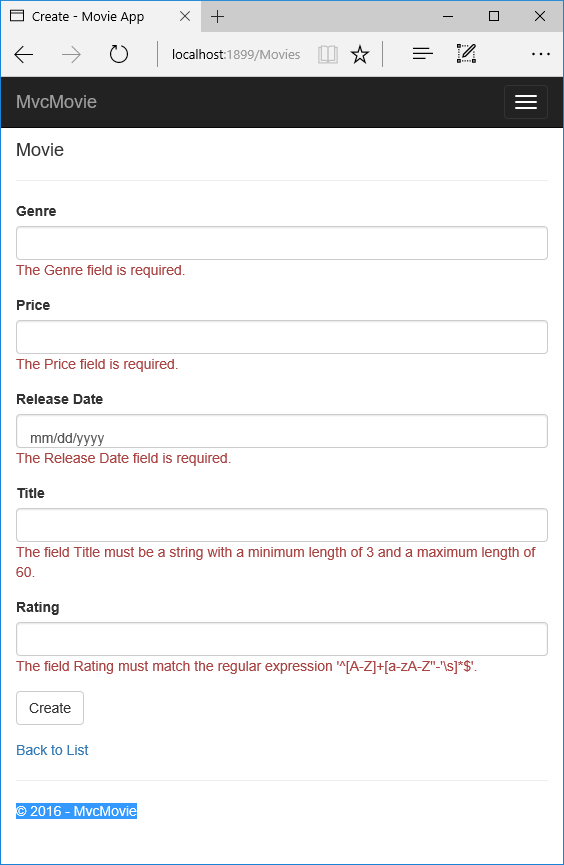
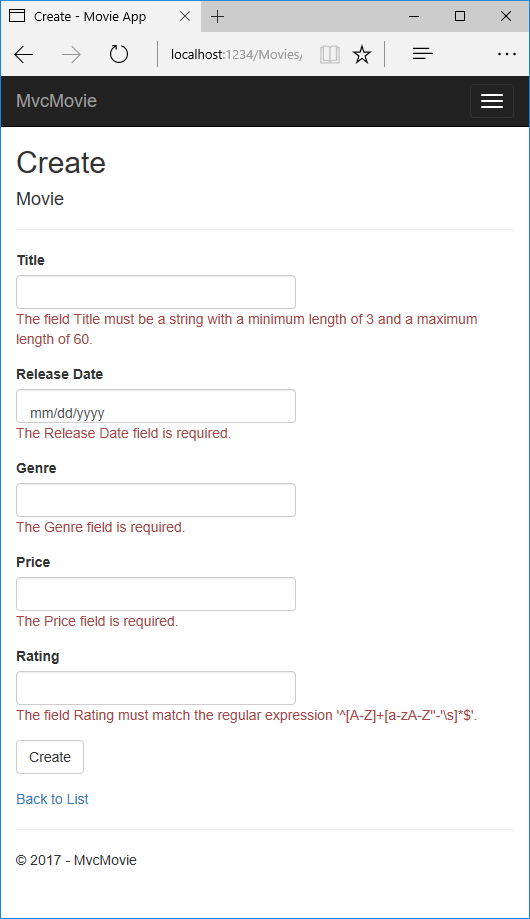
new field and validation

Changed region(s): [[0.0, 0.0, 1.0, 0.874], [0.0302, 0.9052, 0.2415, 0.9676], [0.8453, 0.0, 0.8755, 0.0312]]

diff --git a/aspnetcore/tutorials/first-mvc-app/start-mvc/sample/MvcMovie/Controllers/MoviesController.cs b/aspnetcore/tutorials/first-mvc-app/start-mvc/sample/MvcMovie/Controllers/MoviesController.cs
@@ -41,7 +41,7 @@ namespace MvcMovie.Controllers
             return View(movie);
         }
         #endregion
-
+        #region snippetCreate
         // GET: Movies/Create
         public IActionResult Create()
         {
@@ -49,11 +49,10 @@ namespace MvcMovie.Controllers
         }
 
         // POST: Movies/Create
-        // To protect from overposting attacks, please enable the specific properties you want to bind to, for 
-        // more details see http://go.microsoft.com/fwlink/?LinkId=317598.
         [HttpPost]
         [ValidateAntiForgeryToken]
-        public async Task<IActionResult> Create([Bind("ID,Title,ReleaseDate,Genre,Price")] Movie movie)
+        public async Task<IActionResult> Create(
+            [Bind("ID,Title,ReleaseDate,Genre,Price, Rating")] Movie movie)
         {
             if (ModelState.IsValid)
             {
@@ -63,6 +62,7 @@ namespace MvcMovie.Controllers
             }
             return View(movie);
         }
+        #endregion
 
         // GET: Movies/Edit/5
         public async Task<IActionResult> Edit(int? id)
@@ -85,7 +85,7 @@ namespace MvcMovie.Controllers
         // more details see http://go.microsoft.com/fwlink/?LinkId=317598.
         [HttpPost]
         [ValidateAntiForgeryToken]
-        public async Task<IActionResult> Edit(int id, [Bind("ID,Title,ReleaseDate,Genre,Price")] Movie movie)
+        public async Task<IActionResult> Edit(int id, [Bind("ID,Title,ReleaseDate,Genre,Price,Rating")] Movie movie)
         {
             if (id != movie.ID)
             {

diff --git a/aspnetcore/tutorials/first-mvc-app/start-mvc/sample/MvcMovie/Models/MovieDateRatingDA.cs b/aspnetcore/tutorials/first-mvc-app/start-mvc/sample/MvcMovie/Models/MovieDateRatingDA.cs
@@ -1,11 +1,11 @@
-//#define MovieDateRatingDA
+#define MovieDateRatingDA
 #if MovieDateRatingDA
 using System;
 using System.ComponentModel.DataAnnotations;
 
 namespace MvcMovie.Models
 {
-    // Movie with Validation attributes.
+#region snippet1
     public class Movie
     {
         public int ID { get; set; }
@@ -13,23 +13,25 @@ namespace MvcMovie.Models
         [StringLength(60, MinimumLength = 3)]
         public string Title { get; set; }
 
+        #region snippet2
         [Display(Name = "Release Date")]
         [DataType(DataType.Date)]
         public DateTime ReleaseDate { get; set; }
+
+        [Range(1, 100)]
+        [DataType(DataType.Currency)]
+        public decimal Price { get; set; }
+        #endregion
 
         [RegularExpression(@"^[A-Z]+[a-zA-Z''-'\s]*$")]
         [Required]
         [StringLength(30)]
         public string Genre { get; set; }
 
-        [Range(1, 100)]
-        [DataType(DataType.Currency)]
-        public decimal Price { get; set; }
-
         [RegularExpression(@"^[A-Z]+[a-zA-Z''-'\s]*$")]
         [StringLength(5)]
         public string Rating { get; set; }
     }
-    // End of Movie
+#endregion
 }
 #endif

diff --git a/aspnetcore/tutorials/first-mvc-app/start-mvc/sample/MvcMovie/Models/SeedDataRating.cs b/aspnetcore/tutorials/first-mvc-app/start-mvc/sample/MvcMovie/Models/SeedDataRating.cs
@@ -1,9 +1,8 @@
-//#define SeedRating 
+#define SeedRating 
 #if SeedRating
 
 using Microsoft.EntityFrameworkCore;
 using Microsoft.Extensions.DependencyInjection;
-using MvcMovie.Data;
 using System;
 using System.Linq;
 
@@ -22,6 +21,7 @@ namespace MvcMovie.Models
                 }
 
                 context.Movie.AddRange(
+                #region snippet1
                      new Movie
                      {
                          Title = "When Harry Met Sally",
@@ -30,7 +30,7 @@ namespace MvcMovie.Models
                          Rating = "R",
                          Price = 7.99M
                      },
-                     // Add another movie.
+                #endregion
                      new Movie
                      {
                          Title = "Ghostbusters ",

diff --git a/aspnetcore/tutorials/first-mvc-app/start-mvc/sample/MvcMovie/Migrations/20170302035236_Rating.cs b/aspnetcore/tutorials/first-mvc-app/start-mvc/sample/MvcMovie/Migrations/20170302035236_Rating.cs
@@ -1,0 +1,24 @@
+using System;
+using System.Collections.Generic;
+using Microsoft.EntityFrameworkCore.Migrations;
+
+namespace MvcMovie.Migrations
+{
+    public partial class Rating : Migration
+    {
+        protected override void Up(MigrationBuilder migrationBuilder)
+        {
+            migrationBuilder.AddColumn<string>(
+                name: "Rating",
+                table: "Movie",
+                nullable: true);
+        }
+
+        protected override void Down(MigrationBuilder migrationBuilder)
+        {
+            migrationBuilder.DropColumn(
+                name: "Rating",
+                table: "Movie");
+        }
+    }
+}

diff --git a/aspnetcore/tutorials/first-mvc-app/start-mvc/sample/MvcMovie/Migrations/20170302035236_Rating.Designer.cs b/aspnetcore/tutorials/first-mvc-app/start-mvc/sample/MvcMovie/Migrations/20170302035236_Rating.Designer.cs
@@ -8,9 +8,10 @@ using MvcMovie.Models;
 namespace MvcMovie.Migrations
 {
     [DbContext(typeof(MvcMovieContext))]
-    partial class MvcMovieContextModelSnapshot : ModelSnapshot
+    [Migration("20170302035236_Rating")]
+    partial class Rating
     {
-        protected override void BuildModel(ModelBuilder modelBuilder)
+        protected override void BuildTargetModel(ModelBuilder modelBuilder)
         {
             modelBuilder
                 .HasAnnotation("ProductVersion", "1.1.0-rtm-22752")

diff --git a/aspnetcore/tutorials/first-mvc-app/start-mvc/sample/MvcMovie/Models/MovieDateRatingDAmult.cs b/aspnetcore/tutorials/first-mvc-app/start-mvc/sample/MvcMovie/Models/MovieDateRatingDAmult.cs
@@ -1,9 +1,11 @@
-/*
+//#define COMBINED
+#if COMBINED
 using System;
 using System.ComponentModel.DataAnnotations;
 
 namespace MvcMovie.Models
 {
+    #region snippet1
     public class Movie
     {
         public int ID { get; set; }
@@ -23,9 +25,6 @@ namespace MvcMovie.Models
         [RegularExpression(@"^[A-Z]+[a-zA-Z''-'\s]*$"), StringLength(5)]
         public string Rating { get; set; }
     }
-
-
-
-
+    #endregion
 }
-*/
+#endif

diff --git a/aspnetcore/tutorials/first-mvc-app/start-mvc/sample/MvcMovie/Models/SeedData.cs b/aspnetcore/tutorials/first-mvc-app/start-mvc/sample/MvcMovie/Models/SeedData.cs
@@ -1,4 +1,4 @@
-#define First
+//#define First
 #if First
 // Seed without Rating
 #region snippet_1 

diff --git a/aspnetcore/tutorials/first-mvc-app/start-mvc/sample/MvcMovie/Models/MovieDate.cs b/aspnetcore/tutorials/first-mvc-app/start-mvc/sample/MvcMovie/Models/MovieDate.cs
@@ -1,4 +1,4 @@
-#define AddDate 
+//#define AddDate 
 #if AddDate
 #region snippet_1
 using System;

diff --git a/aspnetcore/tutorials/first-mvc-app/start-mvc/sample/MvcMovie/Models/MovieDateRating.cs b/aspnetcore/tutorials/first-mvc-app/start-mvc/sample/MvcMovie/Models/MovieDateRating.cs
@@ -18,6 +18,4 @@ namespace MvcMovie.Models
     }
 
 }
-
-
 #endif

diff --git a/aspnetcore/tutorials/first-mvc-app/validation.md b/aspnetcore/tutorials/first-mvc-app/validation.md
@@ -1,11 +1,11 @@
 ---
 title: Adding Validation | Microsoft Docs
 author: rick-anderson
-description: 
-keywords: ASP.NET Core,
+description: How to add validation to a simple ASP.NET Core app.
+keywords: ASP.NET Core, validation, DataAnnotations
 ms.author: riande
 manager: wpickett
-ms.date: 10/14/2016
+ms.date: 03/07/2017
 ms.topic: article
 ms.assetid: edbed483-6858-4f19-8082-3ac7d2752986
 ms.technology: aspnet
@@ -16,29 +16,27 @@ uid: tutorials/first-mvc-app/validation
 
 By [Rick Anderson](https://twitter.com/RickAndMSFT)
 
-In this section you'll add validation logic to the `Movie` model, and you'll ensure that the validation rules are enforced any time a user attempts to create or edit a movie.
+In this section you'll add validation logic to the `Movie` model, and you'll ensure that the validation rules are enforced any time a user creates or edits a movie.
 
-## Keeping things DRY
+### Keeping things DRY
 
 One of the design tenets of MVC is [DRY](http://en.wikipedia.org/wiki/Don%27t_repeat_yourself) ("Don't Repeat Yourself"). ASP.NET MVC encourages you to specify functionality or behavior only once, and then have it be reflected everywhere in an app. This reduces the amount of code you need to write and makes the code you do write less error prone, easier to test, and easier to maintain.
 
-The validation support provided by MVC and Entity Framework Core Code First is a great example of the DRY principle in action. You can declaratively specify validation rules in one place (in the model class) and the rules are enforced everywhere in the app.
+The validation support provided by MVC and Entity Framework Core Code First is a good example of the DRY principle in action. You can declaratively specify validation rules in one place (in the model class) and the rules are enforced everywhere in the app.
 
-Let's look at how you can take advantage of this validation support in the movie app.
-
-## Adding validation rules to the movie model
+### Adding validation rules to the movie model
 
 Open the *Movie.cs* file. DataAnnotations provides a built-in set of validation attributes that you apply declaratively to any class or property. (It also contains formatting attributes like `DataType` that help with formatting and don't provide any validation.)
 
 Update the `Movie` class to take advantage of the built-in `Required`, `StringLength`, `RegularExpression`, and `Range` validation attributes.
 
-[!code-none[Main](../../tutorials/first-mvc-app/start-mvc/sample2/src/MvcMovie/Models/MovieDateRatingDA.cs?highlight=5,12,13,14,17,18,21,22&range=9-32)]
+[!code-csharp[Main](start-mvc/sample/MvcMovie/Models/MovieDateRatingDA.cs?name=snippet1)]
 
 The validation attributes specify behavior that you want to enforce on the model properties they are applied to. The `Required` and `MinimumLength` attributes indicates that a property must have a value; but nothing prevents a user from entering white space to satisfy this validation. The `RegularExpression` attribute is used to limit what characters can be input. In the code above, `Genre` and `Rating` must use only letters (white space, numbers and special characters are not allowed). The `Range` attribute constrains a value to within a specified range. The `StringLength` attribute lets you set the maximum length of a string property, and optionally its minimum length. Value types (such as `decimal`, `int`, `float`, `DateTime`) are inherently required and don't need the `[Required]` attribute.
 
 Having validation rules automatically enforced by ASP.NET helps make your app more robust. It also ensures that you can't forget to validate something and inadvertently let bad data into the database.
 
-## Validation Error UI in MVC
+### Validation Error UI in MVC
 
 Run the app and navigate to the Movies controller.
 
@@ -55,11 +53,11 @@ A significant benefit is that you didn't need to change a single line of code in
 
 The form data is not sent to the server until there are no client side validation errors. You can verify this by putting a break point in the `HTTP Post` method, by using the [Fiddler tool](http://www.telerik.com/fiddler) , or the [F12 Developer tools](https://dev.windows.com/en-us/microsoft-edge/platform/documentation/f12-devtools-guide/).
 
-## How Validation Occurs in the Create View and Create Action Method
+### How Validation Occurs in the Create View and Create Action Method
 
-You might wonder how the validation UI was generated without any updates to the code in the controller or views. The next listing shows the two `Create` methods.
+You might wonder how the validation UI was generated without any updates to the code in the controller or views. The follow code shows the two `Create` methods.
 
-[!code-csharp[Main](start-mvc/sample2/src/MvcMovie/Controllers/MoviesController.cs?range=56-76)]
+[!code-csharp[Main](start-mvc/sample/MvcMovie/Controllers/MoviesController.cs?name=snippetCreate)]
 
 The first (HTTP GET) `Create` action method displays the initial Create form. The second (`[HttpPost]`) version handles the form post. The second `Create` method (The `[HttpPost]` version) calls `ModelState.IsValid` to check whether the movie has any validation errors. Calling this method evaluates any validation attributes that have been applied to the object. If the object has validation errors, the `Create` method re-displays the form. If there are no errors, the method saves the new movie in the database. In our movie example, the form is not posted to the server when there are validation errors detected on the client side; the second `Create` method is never called when there are client side validation errors. If you disable JavaScript in your browser, client validation is disabled and you can test the HTTP POST `Create` method `ModelState.IsValid` detecting any validation errors.
 
@@ -81,9 +79,9 @@ After you disable JavaScript, post invalid data and step through the debugger.
 
 Below is portion of the *Create.cshtml* view template that you scaffolded earlier in the tutorial. It's used by the action methods shown above both to display the initial form and to redisplay it in the event of an error.
 
-[!code-HTML[Main](../../tutorials/first-mvc-app/start-mvc/sample2/src/MvcMovie/Views/Movies/CreateRatingBrevity.cshtml?highlight=9,10,17,18,13&range=9-35)]
+[!code-HTML[Main](start-mvc/sample/MvcMovie/Views/Movies/CreateRatingBrevity.cshtml)]
 
-The [Input Tag Helper](../../mvc/views/working-with-forms.md) consumes the [DataAnnotations](http://msdn.microsoft.com/en-us/library/system.componentmodel.dataannotations.aspx) attributes and produces HTML attributes needed for jQuery Validation on the client side. The [Validation Tag Helper](../../mvc/views/working-with-forms.md) displays a validation errors. See [Validation](../../mvc/models/validation.md) for more information.
+The [Input Tag Helper](xref:mvc/views/working-with-forms) consumes the [DataAnnotations](http://msdn.microsoft.com/en-us/library/system.componentmodel.dataannotations.aspx) attributes and produces HTML attributes needed for jQuery Validation on the client side. The [Validation Tag Helper](xref:mvc/views/working-with-forms#the-validation-tag-helpers) displays a validation errors. See [Validation](xref:mvc/models/validation) for more information.
 
 What's really nice about this approach is that neither the controller nor the `Create` view template knows anything about the actual validation rules being enforced or about the specific error messages displayed. The validation rules and the error strings are specified only in the `Movie` class. These same validation rules are automatically applied to the `Edit` view and any other views templates you might create that edit your model.
 
@@ -93,7 +91,7 @@ When you need to change validation logic, you can do so in exactly one place by 
 
 Open the *Movie.cs* file and examine the `Movie` class. The `System.ComponentModel.DataAnnotations` namespace provides formatting attributes in addition to the built-in set of validation attributes. We've already applied a `DataType` enumeration value to the release date and to the price fields. The following code shows the `ReleaseDate` and `Price` properties with the appropriate `DataType` attribute.
 
-[!code-csharp[Main](../../tutorials/first-mvc-app/start-mvc/sample2/src/MvcMovie/Models/MovieDateRatingDA.cs?highlight=2,6&range=16-19,25-27)]
+[!code-csharp[Main](start-mvc/sample/MvcMovie/Models/MovieDateRatingDA.cs?highlight=2,6&name=snippet2)]
 
 The `DataType` attributes only provide hints for the view engine to format the data (and supply attributes such as `<a>` for URL's and `<a href="mailto:EmailAddress.com">` for email. You can use the `RegularExpression` attribute to validate the format of the data. The `DataType` attribute is used to specify a data type that is more specific than the database intrinsic type, they are not validation attributes. In this case we only want to keep track of the date, not the time. The `DataType` Enumeration provides for many data types, such as Date, Time, PhoneNumber, Currency, EmailAddress and more. The `DataType` attribute can also enable the application to automatically provide type-specific features. For example, a `mailto:` link can be created for `DataType.EmailAddress`, and a date selector can be provided for `DataType.Date` in browsers that support HTML5. The `DataType` attributes emits HTML 5 `data-` (pronounced data dash) attributes that HTML 5 browsers can understand. The
 `DataType` attributes do **not** provide any validation.
@@ -128,19 +126,16 @@ You will need to disable jQuery date validation to use the `Range` attribute wit
 
 The following code shows combining attributes on one line:
 
-[!code-csharp[Main](../../tutorials/first-mvc-app/start-mvc/sample2/src/MvcMovie/Models/MovieDateRatingDAmult.cs?highlight=5,8,11,14,17&range=7-25)]
+[!code-csharp[Main](start-mvc/sample/MvcMovie/Models/MovieDateRatingDAmult.cs?name=snippet1)]
 
 In the next part of the series, we'll review the application and make some improvements to the automatically generated `Details` and `Delete` methods.
 
 ## Additional resources
 
-* [Working with Forms](../../mvc/views/working-with-forms.md)
-
-* [Globalization and localization](../../fundamentals/localization.md)
-
-* [Introduction to Tag Helpers](../../mvc/views/tag-helpers/intro.md)
-
-* [Authoring Tag Helpers](../../mvc/views/tag-helpers/authoring.md)
+* [Working with Forms](xref:mvc/views/working-with-forms)
+* [Globalization and localization](xref:fundamentals/localization)
+* [Introduction to Tag Helpers](xref:mvc/views/tag-helpers/intro)
+* [Authoring Tag Helpers](xref:mvc/views/tag-helpers/authoring)
 
 >[!div class="step-by-step"]
 [Previous](new-field.md)

diff --git a/aspnetcore/tutorials/first-mvc-app/new-field.md b/aspnetcore/tutorials/first-mvc-app/new-field.md
@@ -18,13 +18,13 @@ By [Rick Anderson](https://twitter.com/RickAndMSFT)
 
 In this section you'll use [Entity Framework](http://docs.efproject.net/en/latest/platforms/aspnetcore/new-db.html) Code First Migrations to add a new field to the model and migrate that change to the database.
 
-When you use EF Code First to automatically create a database, Code First adds a table to the database to help track whether the schema of the database is in sync with the model classes it was generated from. If they aren't in sync, EF throws an exception. This makes it easier to track down issues at development time that you might otherwise only find (by obscure errors) at run time.
+When you use EF Code First to automatically create a database, Code First adds a table to the database to help track whether the schema of the database is in sync with the model classes it was generated from. If they aren't in sync, EF throws an exception. This makes it easier to find inconsistent database/code issues.
 
-## Adding a Rating Property to the Movie Model
+### Adding a Rating Property to the Movie Model
 
 Open the *Models/Movie.cs* file and add a `Rating` property:
 
-[!code-csharp[Main](./start-mvc/sample2/src/MvcMovie/Models/MovieDateRating.cs?highlight=11&range=7-18)]
+[!code-csharp[Main](start-mvc/sample/MvcMovie/Models/MovieDateRating.cs?highlight=11&range=7-18)]
 
 Build the app (Ctrl+Shift+B).
 
@@ -38,15 +38,15 @@ You also need to update the view templates in order to display, create and edit 
 
 Edit the */Views/Movies/Index.cshtml* file and add a `Rating` field:
 
-[!code-HTML[Main](../../tutorials/first-mvc-app/start-mvc/sample2/src/MvcMovie/Views/Movies/IndexGenreRating.cshtml?highlight=16,37&range=24-61)]
+[!code-HTML[Main](start-mvc/sample/MvcMovie/Views/Movies/IndexGenreRating.cshtml?highlight=17,39&range=24-64)]
 
-Update the */Views/Movies/Create.cshtml* with a `Rating` field. You can copy/paste the previous "form group" and let intelliSense help you update the fields. IntelliSense works with [Tag Helpers](../../mvc/views/tag-helpers/intro.md).
+Update the */Views/Movies/Create.cshtml* with a `Rating` field. You can copy/paste the previous "form group" and let intelliSense help you update the fields. IntelliSense works with [Tag Helpers](xref:mvc/views/tag-helpers/intro).
 
 ![The developer has typed the letter R for the attribute value of asp-for in the second label element of the view. An Intellisense contextual menu has appeared showing the available fields, including Rating, which is highlighted in the list automatically. When the developer clicks the field or presses Enter on the keyboard, the value will be set to Rating.](new-field/_static/cr.png)
 
 The app won't work until we update the DB to include the new field. If you run it now, you'll get the following `SqlException`:
 
-![Browser window showing an Internal Server Error: Sql Exception: Invalid column name Rating. There are pending model changes for Application DB Context. Scaffold a new migration for these changes and apply them to the database from the command line: dotnet ef migrations add (migration name) or dotnet ef database update.](new-field/_static/se.png)
+`SqlException: Invalid column name 'Rating'.`
 
 You're seeing this error because the updated Movie model class is different than the schema of the Movie table of the existing database. (There's no Rating column in the database table.)
 
@@ -62,7 +62,7 @@ For this tutorial, we'll use Code First Migrations.
 
 Update the `SeedData` class so that it provides a value for the new column. A sample change is shown below, but you'll want to make this change for each `new Movie`.
 
-[!code-csharp[Main](./start-mvc/sample2/src/MvcMovie/Models/SeedDataRating.cs?highlight=6&range=25-32)]
+[!code-csharp[Main](start-mvc/sample/MvcMovie/Models/SeedDataRating.cs?name=snippet1&highlight=6)]
 
 Build the solution then open a command prompt. Enter the following commands:
 
